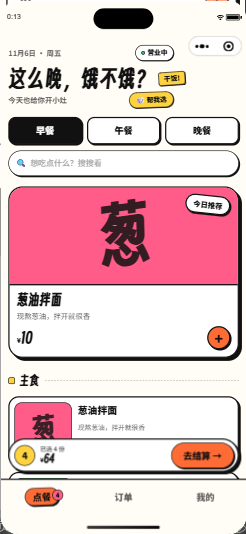
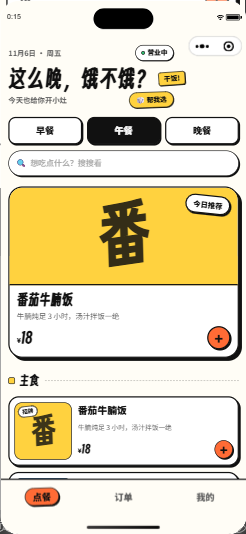
docs: 更新界面截图（清空购物车、午餐菜单）

diff --git a/scripts/screenshots.js b/scripts/screenshots.js
@@ -6,9 +6,41 @@ const sleep = ms => new Promise(r => setTimeout(r, ms))
   const mp = await automator.connect({
     wsEndpoint: process.argv[2] || 'ws://127.0.0.1:9420'
   })
+  await mp.mockWxMethod('showModal', {
+    confirm: true,
+    cancel: false,
+    content: ''
+  })
 
+  // 清空测试遗留的购物车，再切到午餐拍首页
   await mp.switchTab('/pages/home/index')
-  await sleep(2500)
+  await sleep(1600)
+  let page = await mp.currentPage()
+  let data = await page.data()
+  if (data.cartCount > 0) {
+    await mp.evaluate(function () {
+      const current = getCurrentPages()[getCurrentPages().length - 1]
+      current.onCheckout()
+    })
+    await sleep(1400)
+    await mp.evaluate(function () {
+      const current = getCurrentPages()[getCurrentPages().length - 1]
+      current.onClearCart()
+    })
+    await sleep(1400)
+  }
+  await mp.switchTab('/pages/home/index')
+  await sleep(1200)
+  await mp.evaluate(function () {
+    const current = getCurrentPages()[getCurrentPages().length - 1]
+    current.onClearSearch()
+  })
+  await sleep(400)
+  await mp.evaluate(function () {
+    const current = getCurrentPages()[getCurrentPages().length - 1]
+    current.onSelectMeal({ currentTarget: { dataset: { meal: 'lunch' } } })
+  })
+  await sleep(1800)
   await mp.screenshot({ path: 'docs/home-preview.png' })
   console.log('saved docs/home-preview.png')
 
@@ -18,7 +50,7 @@ const sleep = ms => new Promise(r => setTimeout(r, ms))
   console.log('saved docs/kitchen-prep.png')
 
   await mp.switchTab('/pages/home/index')
-  await sleep(1200)
+  await sleep(1500)
   await mp.evaluate(function () {
     const page = getCurrentPages()[getCurrentPages().length - 1]
     page.onSearchInput({ detail: { value: '饭' } })
@@ -27,6 +59,10 @@ const sleep = ms => new Promise(r => setTimeout(r, ms))
   await mp.screenshot({ path: 'docs/search-result.png' })
   console.log('saved docs/search-result.png')
 
+  await mp.evaluate(function () {
+    const page = getCurrentPages()[getCurrentPages().length - 1]
+    page.onClearSearch()
+  })
   await mp.disconnect()
   process.exit(0)
 })().catch(err => {
